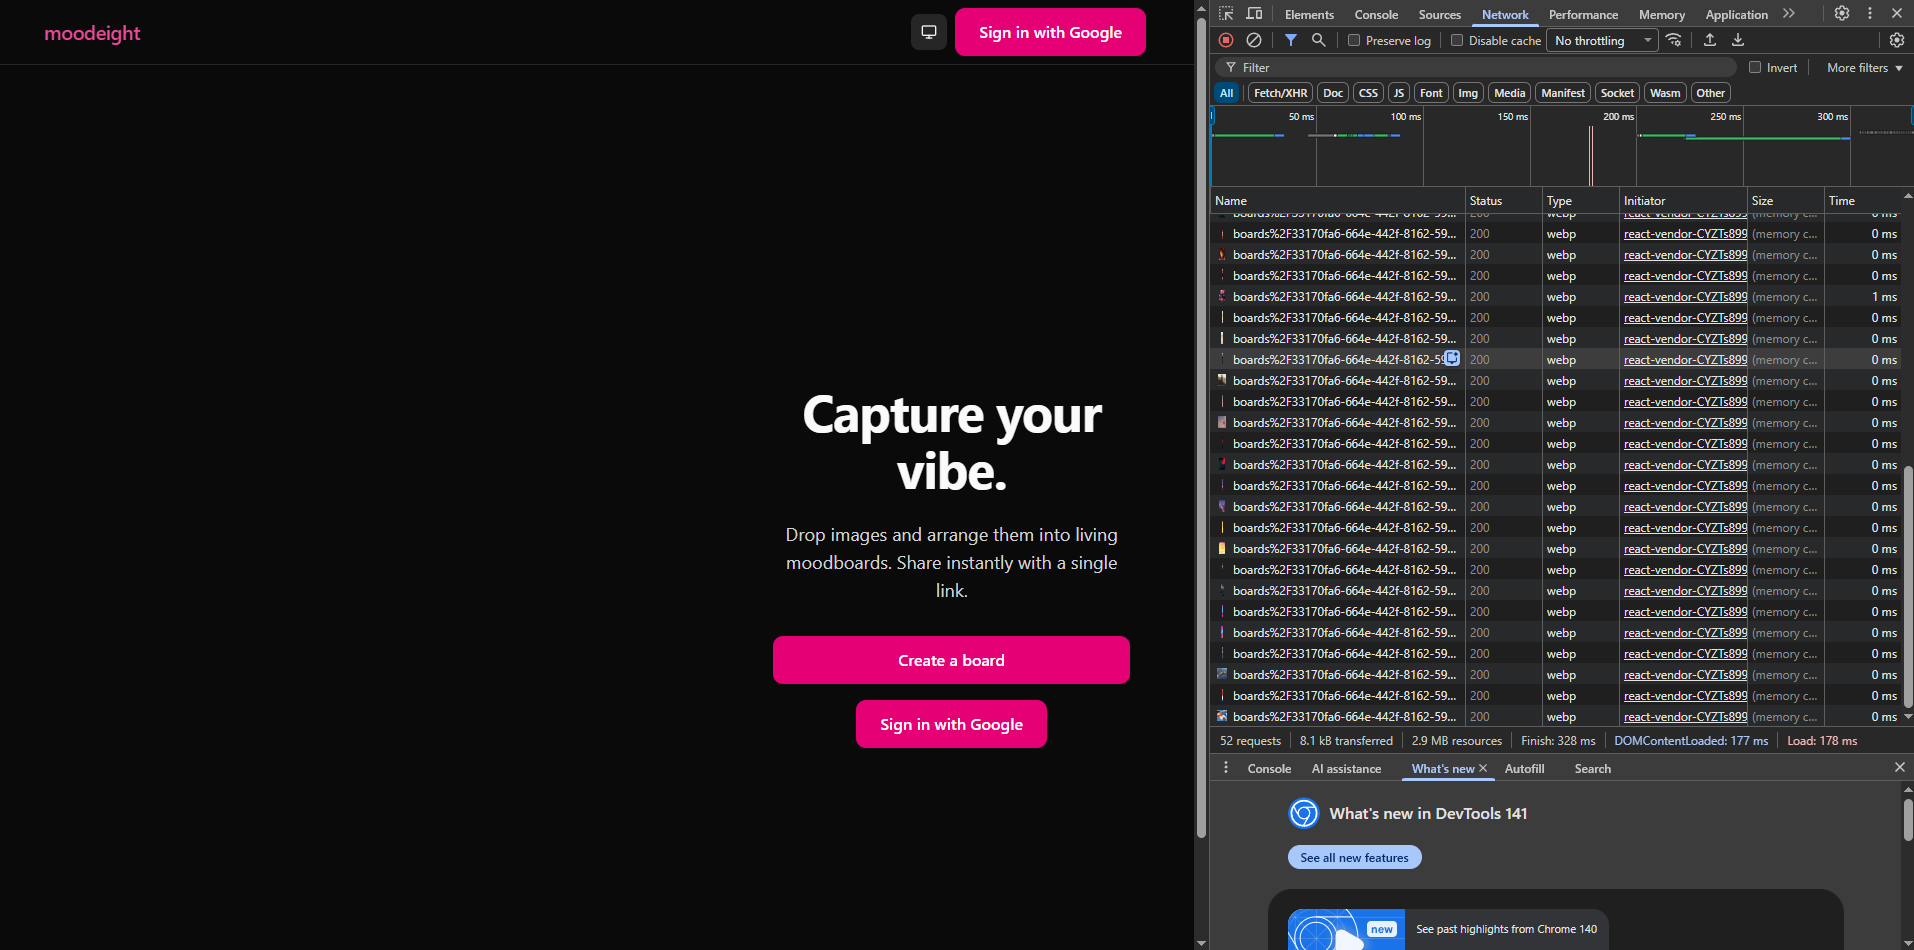
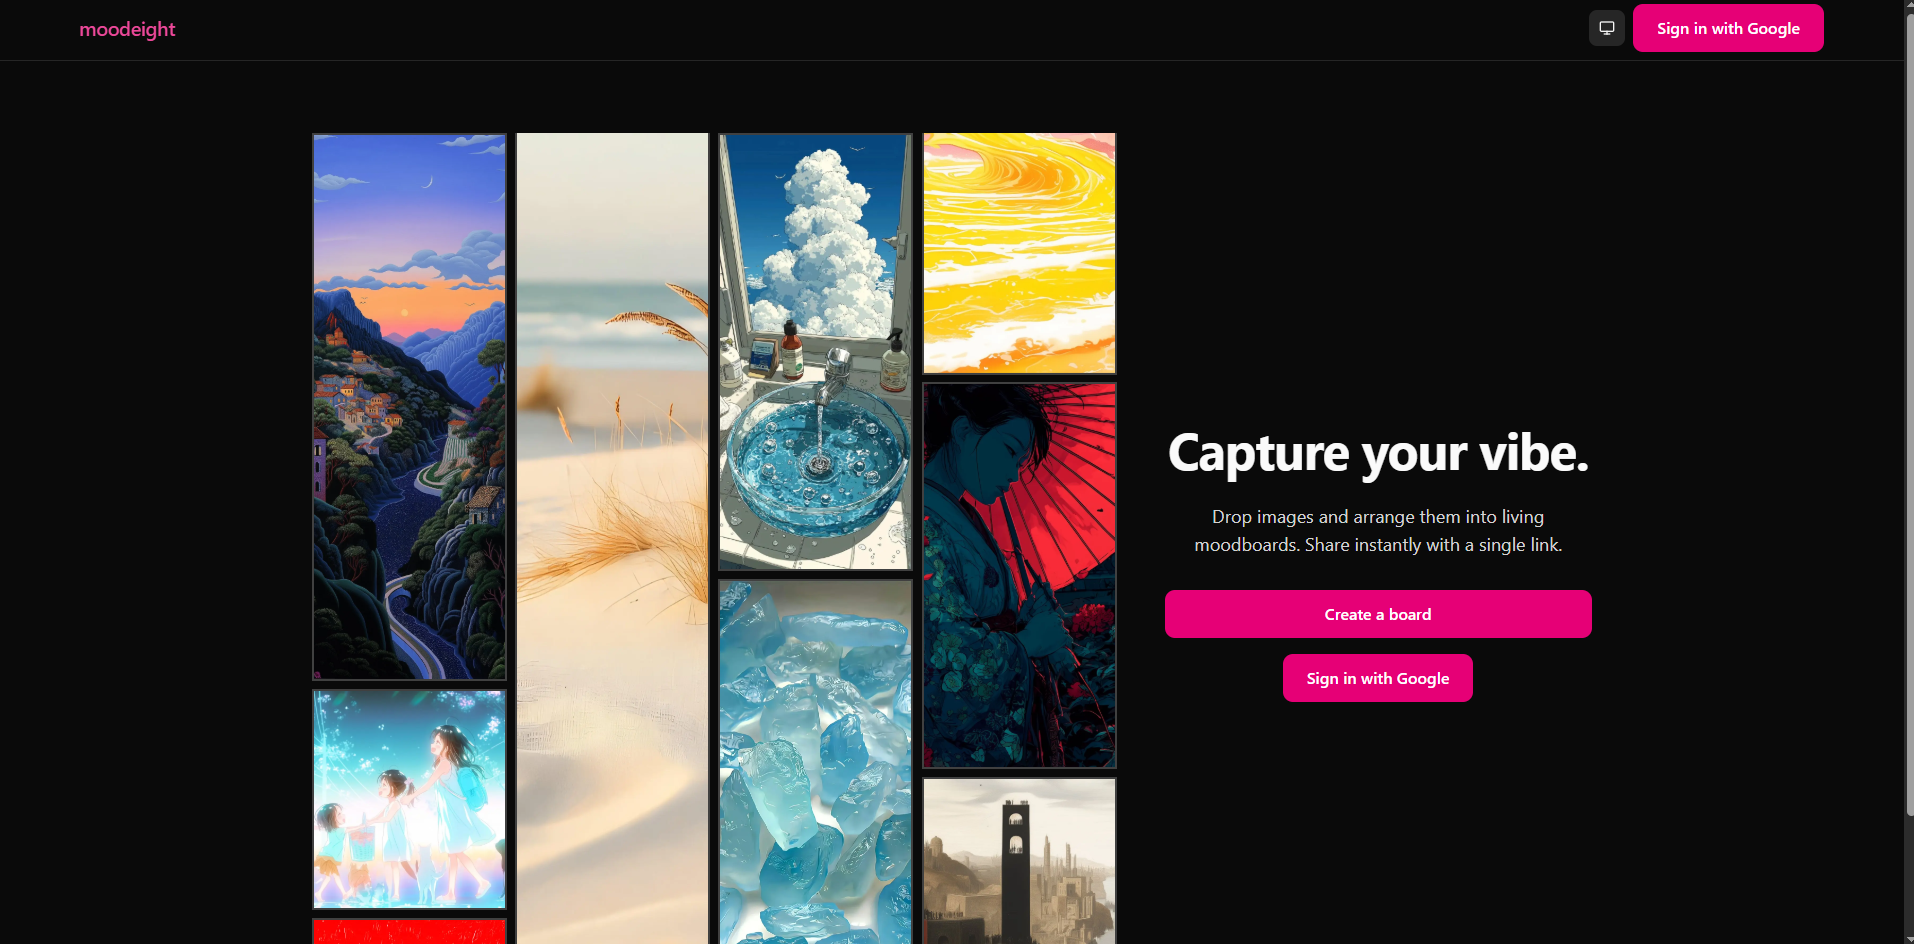
waterfall animation added

diff --git a/src/components/MasonryGrid.tsx b/src/components/MasonryGrid.tsx
@@ -141,8 +141,7 @@ export function MasonryGrid({ images, onImageClick, onImageMenuClick, minCardWid
               ...columnStyle,
               flexDirection: isReversed ? "column-reverse" : "column"
             }}
-            className={cn("waterfall-column", isReversed && "flex-col-reverse")}
-          >
+            className={cn("waterfall-column", isReversed && "flex-col-reverse", `showcase-column-${(columnIndex % 3) + 1}`)}          >
             {columnImages.map((image) => (
               <ImageGridItem
                 key={image.id}

diff --git a/src/components/ShowcaseBoard.tsx b/src/components/ShowcaseBoard.tsx
@@ -74,7 +74,7 @@ export function ShowcaseBoard() {
         images={board.images}
         minCardWidth={180} // Smaller cards for denser layout
         gap={8} // Tight spacing
-        maxHeight="100vh" // Fixed height, no scrolling
+        maxHeight="100%" // Fixed height, no scrolling
         alternatingDirection={true} // Enable waterfall alternating directions
       />
     </div>
